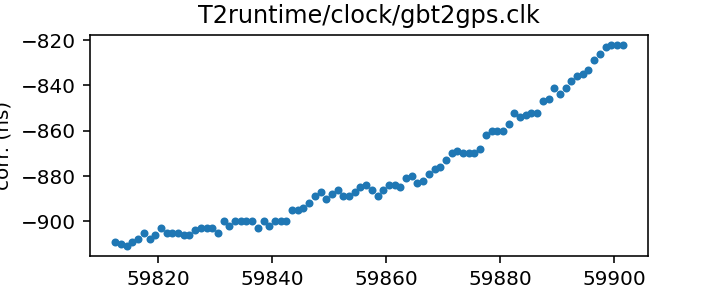
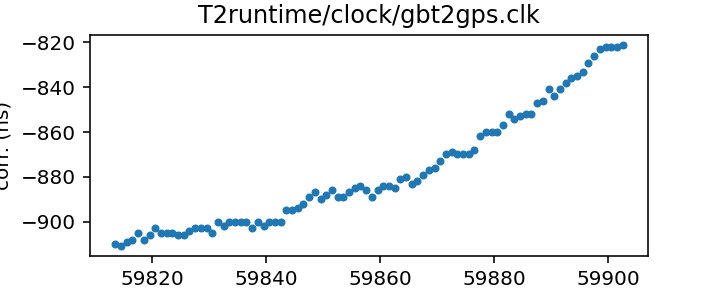
Routine gh-pages update from Github action Sun Nov 20 20:32:09 UTC 2022

diff --git a/status.md b/status.md
@@ -13,17 +13,17 @@ name of each clock file links to a page with more details.
 
 | Name | File | Corrections start | Corrections end | Last check date | Last check result 
 |:--- |:--- | --- | --- | --- |:--- 
-| [GPS to UTC](T2runtime/clock/gps2utc.clk.html) | `T2runtime/clock/gps2utc.clk` | 1993-01-01 MJD 48988.0 | 2022-10-27 MJD 59879.0 | 2022-11-19 | Unchanged 
-| [GPS to UTC (Combined Clock)](T2runtime/clock/gps2utc_cc.clk.html) | `T2runtime/clock/gps2utc_cc.clk` | 1993-01-01 MJD 48988.0 | 2022-10-27 MJD 59879.0 | 2022-11-19 | Unchanged 
-| [GPS to UTC (Corrected)](T2runtime/clock/gps2utc_c0p.clk.html) | `T2runtime/clock/gps2utc_c0p.clk` | 2010-12-29 MJD 55559.0 | 2022-10-27 MJD 59879.0 | 2022-11-19 | Unchanged 
-| [GBT](tempo/clock/time_gbt.dat.html) | `tempo/clock/time_gbt.dat` | 2000-12-31 MJD 51909.5 | 2022-11-18 MJD 59901.5 | 2022-11-19 | Updated 
-| [GBT (TEMPO2 converted from TEMPO)](T2runtime/clock/gbt2gps.clk.html) | `T2runtime/clock/gbt2gps.clk` | 2000-12-31 MJD 51909.5 | 2022-11-18 MJD 59901.5 | 2022-11-19 | Updated 
+| [GPS to UTC](T2runtime/clock/gps2utc.clk.html) | `T2runtime/clock/gps2utc.clk` | 1993-01-01 MJD 48988.0 | 2022-10-27 MJD 59879.0 | 2022-11-20 | Unchanged 
+| [GPS to UTC (Combined Clock)](T2runtime/clock/gps2utc_cc.clk.html) | `T2runtime/clock/gps2utc_cc.clk` | 1993-01-01 MJD 48988.0 | 2022-10-27 MJD 59879.0 | 2022-11-20 | Unchanged 
+| [GPS to UTC (Corrected)](T2runtime/clock/gps2utc_c0p.clk.html) | `T2runtime/clock/gps2utc_c0p.clk` | 2010-12-29 MJD 55559.0 | 2022-10-27 MJD 59879.0 | 2022-11-20 | Unchanged 
+| [GBT](tempo/clock/time_gbt.dat.html) | `tempo/clock/time_gbt.dat` | 2000-12-31 MJD 51909.5 | 2022-11-19 MJD 59902.5 | 2022-11-20 | Updated 
+| [GBT (TEMPO2 converted from TEMPO)](T2runtime/clock/gbt2gps.clk.html) | `T2runtime/clock/gbt2gps.clk` | 2000-12-31 MJD 51909.5 | 2022-11-19 MJD 59902.5 | 2022-11-20 | Updated 
 | [Jodrell Bank](T2runtime/clock/jb2gps.clk.html) | `T2runtime/clock/jb2gps.clk` | 2006-10-13 MJD 54021.4 | 2021-11-03 MJD 59521.0 | 2022-11-16 | Unchanged 
 | [Jodrell Bank Roach](T2runtime/clock/jbroach2jb.clk.html) | `T2runtime/clock/jbroach2jb.clk` | 2006-10-13 MJD 54021.4 | 2018-03-20 MJD 58197.6 | 2022-11-16 | Unchanged 
 | [Jodrell Bank DFB](T2runtime/clock/jbdfb2jb.clk.html) | `T2runtime/clock/jbdfb2jb.clk` | 2006-10-13 MJD 54021.4 | 2017-05-11 MJD 57884.0 | 2022-11-16 | Unchanged 
 | [Meerkat (observatory)](T2runtime/clock/mk2utc_observatory.clk.html) | `T2runtime/clock/mk2utc_observatory.clk` | 2019-01-01 MJD 58484.0 | 2022-10-27 MJD 59880.0 | 2022-11-14 | Updated 
-| [Leap seconds](tempo/clock/leap.sec.html) | `tempo/clock/leap.sec` | 1972-07-01 MJD 41499.0 | 2017-01-01 MJD 57754.0 | 2022-11-19 | Unchanged 
-| [UT1 table](tempo/clock/ut1.dat.html) | `tempo/clock/ut1.dat` | 1973-01-02 MJD 41684.0 | 2023-11-25 MJD 60273.0 | 2022-11-19 | Unchanged 
+| [Leap seconds](tempo/clock/leap.sec.html) | `tempo/clock/leap.sec` | 1972-07-01 MJD 41499.0 | 2017-01-01 MJD 57754.0 | 2022-11-20 | Unchanged 
+| [UT1 table](tempo/clock/ut1.dat.html) | `tempo/clock/ut1.dat` | 1973-01-02 MJD 41684.0 | 2023-11-25 MJD 60273.0 | 2022-11-20 | Unchanged 
 
 
 

diff --git a/T2runtime/clock/gbt2gps.clk.md b/T2runtime/clock/gbt2gps.clk.md
@@ -23,14 +23,13 @@ If questions arise about the conversion, contact Anne Archibald
 | Format | tempo2 |
 | Bogus last correction | False |
 | Clock file start | 2000-12-31 MJD 51909.5 |
-| Clock file end | 2022-11-18 MJD 59901.5 |
+| Clock file end | 2022-11-19 MJD 59902.5 |
 | Update interval (days) | 1 |
-| Last update attempt | 2022-11-19 |
+| Last update attempt | 2022-11-20 |
 | Last update result | Updated |
 
 Log entries from the last few update attempts:
 ```
-2022-11-10 20:35:51.859 - Updated
 2022-11-11 20:34:49.846 - Updated
 2022-11-12 20:33:44.670 - Updated
 2022-11-13 20:33:40.847 - Updated
@@ -40,12 +39,13 @@ Log entries from the last few update attempts:
 2022-11-17 20:32:49.113 - Updated
 2022-11-18 20:32:39.860 - Updated
 2022-11-19 20:32:05.426 - Updated
+2022-11-20 20:31:46.354 - Updated
 ```
 [Full log](https://raw.githubusercontent.com/ipta/pulsar-clock-corrections/main/log/T2runtime/clock/gbt2gps.clk.log)
 
 Leading comments from clock file:
 
-    # This file was automatically converted from tempo/clock/time_gbt.dat on 2022-11-19 20:32:05.331
+    # This file was automatically converted from tempo/clock/time_gbt.dat on 2022-11-20 20:31:46.287
 
 
 

diff --git a/tempo/clock/time_gbt.dat.md b/tempo/clock/time_gbt.dat.md
@@ -18,14 +18,13 @@ If questions arise, contact Ryan S. Lynch <rlynch@nrao.edu>.
 | Format | tempo |
 | Bogus last correction | False |
 | Clock file start | 2000-12-31 MJD 51909.5 |
-| Clock file end | 2022-11-18 MJD 59901.5 |
+| Clock file end | 2022-11-19 MJD 59902.5 |
 | Update interval (days) | 1 |
-| Last update attempt | 2022-11-19 |
+| Last update attempt | 2022-11-20 |
 | Last update result | Updated |
 
 Log entries from the last few update attempts:
 ```
-2022-11-10 20:35:51.770 - Updated
 2022-11-11 20:34:49.765 - Updated
 2022-11-12 20:33:44.587 - Updated
 2022-11-13 20:33:40.754 - Updated
@@ -35,6 +34,7 @@ Log entries from the last few update attempts:
 2022-11-17 20:32:49.044 - Updated
 2022-11-18 20:32:39.791 - Updated
 2022-11-19 20:32:05.327 - Updated
+2022-11-20 20:31:46.286 - Updated
 ```
 [Full log](https://raw.githubusercontent.com/ipta/pulsar-clock-corrections/main/log/tempo/clock/time_gbt.dat.log)
 

diff --git a/T2runtime/clock/gps2utc_c0p.clk.md b/T2runtime/clock/gps2utc_c0p.clk.md
@@ -30,12 +30,11 @@ about the BIPM's published corrections, contact <tai@bipm.org>.
 | Clock file start | 2010-12-29 MJD 55559.0 |
 | Clock file end | 2022-10-27 MJD 59879.0 |
 | Update interval (days) | 1 |
-| Last update attempt | 2022-11-19 |
+| Last update attempt | 2022-11-20 |
 | Last update result | Unchanged |
 
 Log entries from the last few update attempts:
 ```
-2022-11-10 20:35:50.310 - Updated
 2022-11-11 20:34:48.672 - Unchanged
 2022-11-12 20:33:43.614 - Unchanged
 2022-11-13 20:33:39.759 - Unchanged
@@ -45,6 +44,7 @@ Log entries from the last few update attempts:
 2022-11-17 20:32:48.287 - Unchanged
 2022-11-18 20:32:39.151 - Unchanged
 2022-11-19 20:32:04.560 - Unchanged
+2022-11-20 20:31:45.862 - Unchanged
 ```
 [Full log](https://raw.githubusercontent.com/ipta/pulsar-clock-corrections/main/log/T2runtime/clock/gps2utc_c0p.clk.log)
 

diff --git a/T2runtime/clock/gps2utc_cc.clk.md b/T2runtime/clock/gps2utc_cc.clk.md
@@ -29,12 +29,11 @@ about the BIPM's published corrections, contact <tai@bipm.org>.
 | Clock file start | 1993-01-01 MJD 48988.0 |
 | Clock file end | 2022-10-27 MJD 59879.0 |
 | Update interval (days) | 1 |
-| Last update attempt | 2022-11-19 |
+| Last update attempt | 2022-11-20 |
 | Last update result | Unchanged |
 
 Log entries from the last few update attempts:
 ```
-2022-11-10 20:35:50.270 - Updated
 2022-11-11 20:34:48.657 - Unchanged
 2022-11-12 20:33:43.601 - Unchanged
 2022-11-13 20:33:39.745 - Unchanged
@@ -44,6 +43,7 @@ Log entries from the last few update attempts:
 2022-11-17 20:32:48.276 - Unchanged
 2022-11-18 20:32:39.140 - Unchanged
 2022-11-19 20:32:04.536 - Unchanged
+2022-11-20 20:31:45.851 - Unchanged
 ```
 [Full log](https://raw.githubusercontent.com/ipta/pulsar-clock-corrections/main/log/T2runtime/clock/gps2utc_cc.clk.log)
 

diff --git a/T2runtime/clock/gps2utc.clk.md b/T2runtime/clock/gps2utc.clk.md
@@ -32,12 +32,11 @@ about the BIPM's published corrections, contact <tai@bipm.org>.
 | Clock file start | 1993-01-01 MJD 48988.0 |
 | Clock file end | 2022-10-27 MJD 59879.0 |
 | Update interval (days) | 1 |
-| Last update attempt | 2022-11-19 |
+| Last update attempt | 2022-11-20 |
 | Last update result | Unchanged |
 
 Log entries from the last few update attempts:
 ```
-2022-11-10 20:35:50.165 - Updated
 2022-11-11 20:34:48.614 - Unchanged
 2022-11-12 20:33:43.561 - Unchanged
 2022-11-13 20:33:39.703 - Unchanged
@@ -47,6 +46,7 @@ Log entries from the last few update attempts:
 2022-11-17 20:32:48.243 - Unchanged
 2022-11-18 20:32:39.108 - Unchanged
 2022-11-19 20:32:04.471 - Unchanged
+2022-11-20 20:31:45.773 - Unchanged
 ```
 [Full log](https://raw.githubusercontent.com/ipta/pulsar-clock-corrections/main/log/T2runtime/clock/gps2utc.clk.log)
 

diff --git a/tempo/clock/leap.sec.md b/tempo/clock/leap.sec.md
@@ -21,12 +21,11 @@ If there are any questions, contact Anne Archibald
 | File start | 1972-07-01 MJD 41499.0 |
 | File end | 2017-01-01 MJD 57754.0 |
 | Update interval (days) | 0 |
-| Last update attempt | 2022-11-19 |
+| Last update attempt | 2022-11-20 |
 | Last update result | Unchanged |
 
 Log entries from the last few update attempts:
 ```
-2022-11-10 20:35:54.994 - Unchanged
 2022-11-11 20:34:49.897 - Unchanged
 2022-11-12 20:33:44.723 - Unchanged
 2022-11-13 20:33:40.901 - Unchanged
@@ -36,5 +35,6 @@ Log entries from the last few update attempts:
 2022-11-17 20:32:53.933 - Unchanged
 2022-11-18 20:32:39.894 - Unchanged
 2022-11-19 20:32:05.507 - Unchanged
+2022-11-20 20:31:46.387 - Unchanged
 ```
 [Full log](https://raw.githubusercontent.com/ipta/pulsar-clock-corrections/main/log/tempo/clock/leap.sec.log)

diff --git a/tempo/clock/ut1.dat.md b/tempo/clock/ut1.dat.md
@@ -30,12 +30,11 @@ If there are any questions, contact Anne Archibald
 | File start | 1973-01-02 MJD 41684.0 |
 | File end | 2023-11-25 MJD 60273.0 |
 | Update interval (days) | 0 |
-| Last update attempt | 2022-11-19 |
+| Last update attempt | 2022-11-20 |
 | Last update result | Unchanged |
 
 Log entries from the last few update attempts:
 ```
-2022-11-10 20:36:10.888 - Updated
 2022-11-11 20:35:03.375 - Unchanged
 2022-11-12 20:33:58.975 - Unchanged
 2022-11-13 20:33:54.035 - Unchanged
@@ -45,5 +44,6 @@ Log entries from the last few update attempts:
 2022-11-17 20:33:04.060 - Updated
 2022-11-18 20:32:49.899 - Unchanged
 2022-11-19 20:32:16.633 - Unchanged
+2022-11-20 20:31:54.449 - Unchanged
 ```
 [Full log](https://raw.githubusercontent.com/ipta/pulsar-clock-corrections/main/log/tempo/clock/ut1.dat.log)
